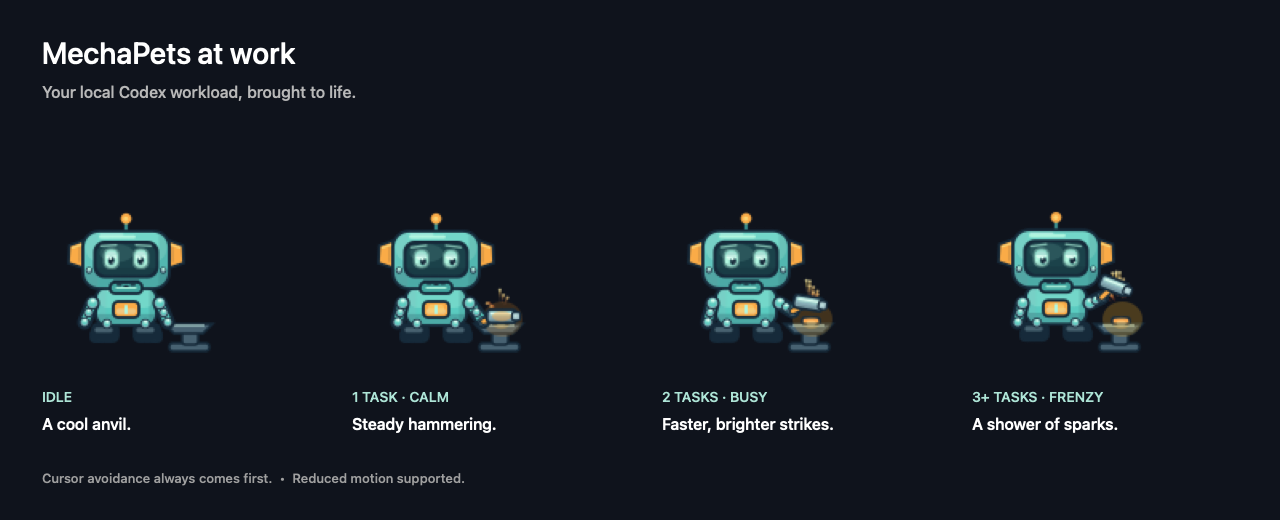
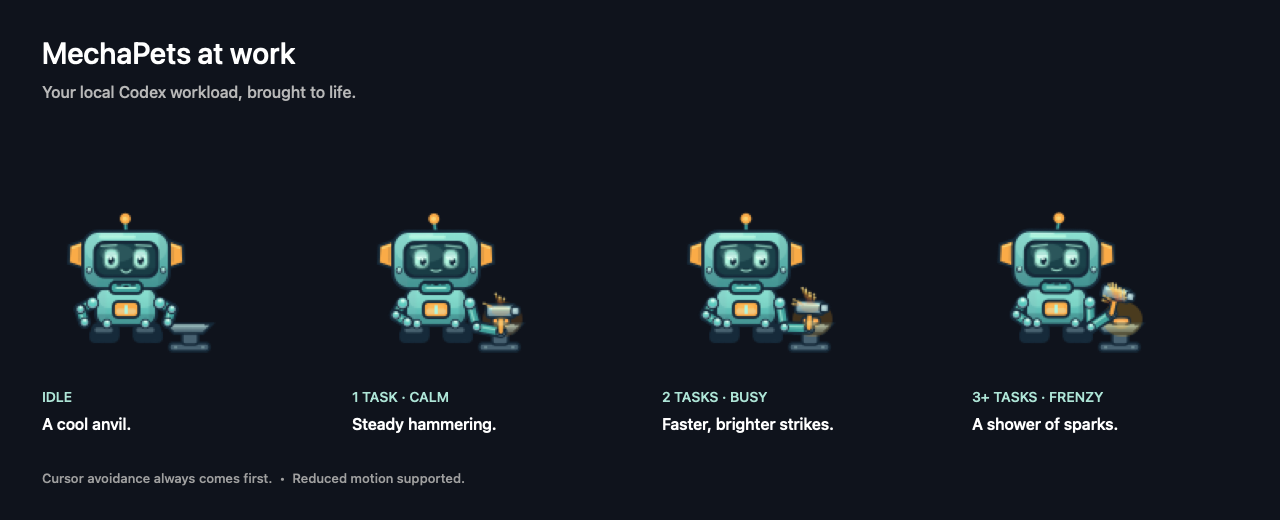
Bring the workshop to life with expressive motion and varied sparks

diff --git a/Sources/Robot.swift b/Sources/Robot.swift
@@ -18,7 +18,11 @@ extension PetView {
         let forging = model.flight == nil && (workloadCount ?? 0) > 0
         let forge = ForgeStyle(count: workloadCount ?? 0)
         let lift = forge.hammerLift(at: now, reducedMotion: model.reducedMotion)
-        let bob:CGFloat = forging ? (model.reducedMotion ? 0 : CGFloat(lift) * (forge.level == 3 ? 1.5 : 0.7)) : row==0 ? (frame==1 || frame==4 ? 1:0):0
+        let still = model.reducedMotion
+        let impact = forging && !still ? max(0, 1 - forge.impactAge(at: now) / 0.12) : 0
+        let breath = still || airborne ? 0 : sin(now * 2.1) * 0.65
+        let bob: CGFloat = forging ? CGFloat(lift) * 1.5 - CGFloat(impact) * 1.1 : CGFloat(breath)
+        let antennaLag: CGFloat = still ? 0 : CGFloat(sin(now * (forging ? forge.strikesPerSecond * .pi * 2 : 2.1) - 0.7)) * (forging ? 1.8 : 0.8)
         func box(_ x:CGFloat,_ y:CGFloat,_ w:CGFloat,_ h:CGFloat,_ r:CGFloat,_ color:NSColor) {
             let p=NSBezierPath(roundedRect:NSRect(x:x,y:y+bob,width:w,height:h),xRadius:r,yRadius:r)
             color.setFill();p.fill();ink.setStroke();p.lineWidth=1.8;p.stroke()
@@ -26,7 +30,7 @@ extension PetView {
         func plated(_ x:CGFloat,_ y:CGFloat,_ w:CGFloat,_ h:CGFloat,_ r:CGFloat,_ color:NSColor) {
             let rect=NSRect(x:x,y:y+bob,width:w,height:h)
             let p=NSBezierPath(roundedRect:rect,xRadius:r,yRadius:r)
-            color.setFill();p.fill()
+            NSGradient(starting:color.blended(withFraction:0.18,of:ink)!, ending:color.blended(withFraction:0.28,of:shine)!)!.draw(in:p,angle:90)
             NSGraphicsContext.saveGraphicsState()
             p.addClip()
             highlight.withAlphaComponent(0.28).setFill()
@@ -73,7 +77,7 @@ extension PetView {
             rim.lineCapStyle = .round;rim.lineWidth=1.15;amber.setStroke();rim.stroke()
         }
         // Short, articulated boots: they tuck up during jumps.
-        let footY:CGFloat=airborne ? -27:-36
+        let footY:CGFloat=(airborne ? -27 : -36) - bob // Feet stay planted while the torso compresses.
         box(-21,footY,16,11,3.4,ink);box(-22,footY,7,7,2.2,ink)
         box(5,footY,16,11,3.4,ink);box(15,footY,7,7,2.2,ink)
         steel.withAlphaComponent(0.42).setFill()
@@ -85,15 +89,24 @@ extension PetView {
         shine.withAlphaComponent(0.34).setFill()
         NSBezierPath(roundedRect:NSRect(x:-6.2,y:-18.8+bob,width:12.4,height:3.4),xRadius:1.4,yRadius:1.4).fill()
         if forging {
-            let pulse=CGFloat(1 - lift) * (0.18 + 0.10 * CGFloat(forge.level))
+            let pulse: CGFloat = still ? 0.10 : CGFloat(impact) * (0.18 + 0.10 * CGFloat(forge.level))
             amber.withAlphaComponent(0.28+pulse).setFill()
             NSBezierPath(roundedRect:NSRect(x:-5,y:-18+bob,width:10,height:5),xRadius:2,yRadius:2).fill()
         }
         line(NSPoint(x:0,y:-18+bob),NSPoint(x:0,y:-14+bob),highlight,2)
         func arm(_ from:NSPoint,_ to:NSPoint) {
-            line(from,to,ink,9.2);line(from,to,shell,5.2)
+            let dx=to.x-from.x,dy=to.y-from.y
+            let distance=max(0.001,hypot(dx,dy))
+            let reach:CGFloat=(airborne || (forging && from.x > 0)) ? 15.5 : 8.5
+            let bend=sqrt(max(0,reach*reach-distance*distance/4))
+            let side:CGFloat=from.x < 0 || forging ? -1 : 1
+            let elbow=NSPoint(x:(from.x+to.x)/2-side*dy/distance*bend,y:(from.y+to.y)/2+side*dx/distance*bend)
+            for (a,b) in [(from,elbow),(elbow,to)] {
+                line(a,b,ink,8);line(a,b,plate,5)
+                line(NSPoint(x:a.x-0.7,y:a.y+0.8),NSPoint(x:b.x-0.7,y:b.y+0.8),highlight.withAlphaComponent(0.65),1.3)
+            }
             joint(from.x,from.y,4.1)
-            joint((from.x+to.x)*0.5,(from.y+to.y)*0.5,3.1)
+            joint(elbow.x,elbow.y,3.1)
         }
         // Arms can reach toward the tether without changing the body silhouette.
         var hammerHead=NSPoint.zero
@@ -104,25 +117,32 @@ extension PetView {
             arm(NSPoint(x:21,y:-11),NSPoint(x:28,y:15))
         } else if forging {
             // One hand steadies the robot while the other works a small steel hammer.
-            arm(NSPoint(x:-21,y:-12),NSPoint(x:-24,y:-24))
-            joint(-24,-24,3.4)
+            arm(NSPoint(x:-21,y:-12+bob),NSPoint(x:-18,y:-24))
+            joint(-18,-24,3.4)
             let t=CGFloat(lift)
             // Hammer head sits on the anvil face at rest; raise tilts it back. Drawn without bob.
-            hammerHead=NSPoint(x:41-9*t,y:-20.2+37*t)
-            hammerHand=NSPoint(x:29.5-2*t,y:-23.5+29*t)
+            hammerHead=NSPoint(x:40.5-9*t,y:-16.9+34*t)
             hammerTilt = -0.72 * t
-            arm(NSPoint(x:21,y:-12),hammerHand)
+            // Fixed-length handle, perpendicular to the hammer face at every pose.
+            hammerHand=NSPoint(x:hammerHead.x+sin(hammerTilt)*13,y:hammerHead.y-cos(hammerTilt)*13)
+            arm(NSPoint(x:21,y:-12+bob),hammerHand)
         } else {
             arm(NSPoint(x:-21,y:-12),NSPoint(x:-26,y:-24))
             arm(NSPoint(x:21,y:-12),NSPoint(x:26,y:-24))
             joint(-26,-24,3.2);joint(26,-24,3.2)
         }
+        // A little head follow-through sells the weight of each blow.
+        NSGraphicsContext.saveGraphicsState()
+        let headMotion=NSAffineTransform()
+        headMotion.translateX(by:forging ? CGFloat(lift)*0.7 : 0,yBy:0)
+        headMotion.rotate(byRadians:forging && !still ? CGFloat(lift)*(-0.025)+CGFloat(impact)*0.018 : 0)
+        headMotion.concat()
         // Angular receiver fins and an amber antenna distinguish the character.
         fin(baseX:-27,pointing:-1);fin(baseX:27,pointing:1)
-        line(NSPoint(x:0,y:31+bob),NSPoint(x:0,y:40+bob),ink,3.2)
-        line(NSPoint(x:0,y:31+bob),NSPoint(x:0,y:39+bob),plate,1.6)
-        orange.setFill();NSBezierPath(ovalIn:NSRect(x:-3.4,y:37.4+bob,width:6.8,height:6.8)).fill()
-        amber.setFill();NSBezierPath(ovalIn:NSRect(x:-1.8,y:39.2+bob,width:3.2,height:3.0)).fill()
+        line(NSPoint(x:0,y:31+bob),NSPoint(x:antennaLag,y:40+bob),ink,3.2)
+        line(NSPoint(x:0,y:31+bob),NSPoint(x:antennaLag,y:39+bob),plate,1.6)
+        orange.setFill();NSBezierPath(ovalIn:NSRect(x:-3.4+antennaLag,y:37.4+bob,width:6.8,height:6.8)).fill()
+        amber.setFill();NSBezierPath(ovalIn:NSRect(x:-1.8+antennaLag,y:39.2+bob,width:3.2,height:3.0)).fill()
         plated(-27,-3,54,36,10,shell)
         box(-10,-6,20,7,3,plate)
         line(NSPoint(x:-6,y:-2.5+bob),NSPoint(x:6,y:-2.5+bob),highlight,1.1)
@@ -144,10 +164,10 @@ extension PetView {
             highlight.setFill();NSBezierPath(ovalIn:NSRect(x:x-0.9,y:y-0.2+bob,width:2.1,height:2.0)).fill()
         }
         rivet(-23.2,8.5);rivet(23.2,8.5)
-        let blink=row==0 && frame==4
-        let lookX:CGFloat = forging ? 1.25 : (airborne ? 0 : 0)
+        let blink = !still && !airborne && now.truncatingRemainder(dividingBy: 4.7) > 4.55
+        let lookX:CGFloat = forging ? 1.25 : (still ? 0 : CGFloat(sin(now * 0.65)) * 0.65)
         let lookY:CGFloat = forging ? -0.85 : (airborne ? 0.45 : 0)
-        let squint:CGFloat = forging ? (0.18 + CGFloat(1 - lift) * (forge.level >= 3 ? 0.38 : 0.16)) : 0
+        let squint:CGFloat = forging ? (still ? 0.12 : 0.18 + CGFloat(impact) * (forge.level >= 3 ? 0.38 : 0.16)) : 0
         func eye(_ x:CGFloat) {
             let h=11.2 - squint*3.4
             let oy:CGFloat=10.2 + squint*1.4
@@ -185,6 +205,11 @@ extension PetView {
         } else {
             eye(-13.2);eye(5.2)
         }
+        // Small smile lives on the visor, separate from the chin vents.
+        let smile=NSBezierPath()
+        smile.move(to:NSPoint(x:-3,y:8.8+bob))
+        smile.curve(to:NSPoint(x:3,y:8.8+bob),controlPoint1:NSPoint(x:-1.4,y:(forging ? 7.7 : 6.5)+bob),controlPoint2:NSPoint(x:1.4,y:(forging ? 7.7 : 6.5)+bob))
+        smile.lineWidth=1.1;smile.lineCapStyle = .round;highlight.withAlphaComponent(0.8).setStroke();smile.stroke()
         let browDrop:CGFloat = forging ? (0.55 + squint*1.15) : (airborne ? -0.75 : 0)
         line(NSPoint(x:-15.6,y:23.7+bob-browDrop),NSPoint(x:-6.1,y:24.3+bob-browDrop*0.3),highlight.withAlphaComponent(0.62),1.35)
         line(NSPoint(x:6.1,y:24.3+bob-browDrop*0.3),NSPoint(x:15.6,y:23.7+bob-browDrop),highlight.withAlphaComponent(0.62),1.35)
@@ -195,6 +220,7 @@ extension PetView {
         line(NSPoint(x:-5.4,y:0.15+bob-grin),NSPoint(x:-3.1,y:0.15+bob-grin),ink,1.15)
         line(NSPoint(x:-1.15,y:-0.25+bob-grin*1.2),NSPoint(x:1.15,y:-0.25+bob-grin*1.2),ink,1.15)
         line(NSPoint(x:3.1,y:0.15+bob-grin),NSPoint(x:5.4,y:0.15+bob-grin),ink,1.15)
+        NSGraphicsContext.restoreGraphicsState() // Head motion does not move the hammer.
         if forging {
             // Draw the hammer without body bob so impact meets the anvil precisely.
             joint(hammerHand.x,hammerHand.y,3.5)
@@ -220,8 +246,8 @@ extension PetView {
             shine.withAlphaComponent(0.5).setFill()
             NSBezierPath(ovalIn:NSRect(x:7.4,y:-0.6,width:2.4,height:1.8)).fill()
             line(NSPoint(x:-6.5,y:1.6),NSPoint(x:5.4,y:1.6),shine,1.25)
-            if lift < 0.22 {
-                let hot=CGFloat(1 - lift / 0.22)
+            if impact > 0 {
+                let hot=CGFloat(impact)
                 NSColor(calibratedRed:1,green:0.62,blue:0.22,alpha:0.18+0.28*hot).setFill()
                 NSBezierPath(ovalIn:NSRect(x:-6,y:-3.2,width:12,height:6.4)).fill()
             }

diff --git a/Sources/Forge.swift b/Sources/Forge.swift
@@ -16,7 +16,16 @@ struct ForgeStyle {
     func hammerLift(at time: Double, reducedMotion: Bool) -> Double {
         guard level > 0 && !reducedMotion else { return 0 }
         let phase = phase(at: time)
-        return phase < 0.7 ? sin(phase / 0.7 * .pi / 2) : max(0, 1 - (phase - 0.7) / 0.18)
+        if phase < 0.64 { // Smooth anticipation; the last part of the lift slows down.
+            let t = phase / 0.64
+            return t * t * (3 - 2 * t)
+        }
+        if phase < 0.70 { return 1 } // Brief poised hold makes the strike readable.
+        if phase < 0.88 {
+            let t = (phase - 0.70) / 0.18
+            return 1 - t * t // Accelerate into contact.
+        }
+        return 0
     }
     func impactAge(at time: Double) -> Double {
         guard level > 0 else { return .infinity }
@@ -47,10 +56,14 @@ extension PetView {
         anvil.line(to: NSPoint(x: 54, y: -25))
         anvil.line(to: NSPoint(x: 48, y: -31))
         anvil.line(to: NSPoint(x: 30, y: -31))
-        anvil.close(); metal.setFill(); anvil.fill(); ink.setStroke(); anvil.lineWidth = 1.5; anvil.stroke()
+        anvil.close()
+        NSGradient(starting:metal.blended(withFraction:0.2,of:ink)!,ending:edge)!.draw(in:anvil,angle:90)
+        ink.setStroke(); anvil.lineWidth = 1.5; anvil.stroke()
         let rim = NSBezierPath(); rim.move(to: NSPoint(x: 29, y: -26)); rim.line(to: NSPoint(x: 49, y: -26))
         edge.setStroke(); rim.lineWidth = 1.4; rim.stroke()
 
+        edge.withAlphaComponent(0.5).setFill()
+        for x in [30.0,47.0] { NSBezierPath(ovalIn:NSRect(x:x,y:-40.6,width:2,height:2)).fill() }
         guard style.level > 0 else { return }
         let age = style.impactAge(at: time)
         let impact = reducedMotion ? 0 : max(0, 1 - age / 0.16)
@@ -59,54 +72,55 @@ extension PetView {
         NSBezierPath(ovalIn: NSRect(x: 29, y: -33, width: 25, height: 22)).fill()
         let hot = NSColor(calibratedRed: 1, green: 0.51 + impact * 0.32, blue: 0.21 + impact * 0.25, alpha: 1)
         box(NSRect(x: 35, y: -25, width: 11, height: 4), radius: 1.5, color: hot)
+    }
+
+    // Effects render above the robot so leftward embers are not hidden by its arm.
+    func drawForgeEffects(at position: V, count: Int, time: Double, reducedMotion: Bool) {
+        let style=ForgeStyle(count:count)
+        guard style.level > 0 && !reducedMotion else { return }
+        NSGraphicsContext.saveGraphicsState()
+        defer { NSGraphicsContext.restoreGraphicsState() }
+        let transform=NSAffineTransform();transform.translateX(by:position.x,yBy:position.y);transform.concat()
+        let age=style.impactAge(at:time)
+        let impact=max(0,1-age/0.16)
         if !reducedMotion && impact > 0 {
             NSColor(calibratedRed: 1, green: 0.72, blue: 0.28, alpha: 0.16 + impact * 0.38).setFill()
             NSBezierPath(ovalIn: NSRect(x: 35.5, y: -28.2, width: 10.5, height: 7.4)).fill()
             NSColor(calibratedRed: 1, green: 0.92, blue: 0.62, alpha: 0.20 + impact * 0.45).setFill()
             NSBezierPath(ovalIn: NSRect(x: 37.6, y: -26.4, width: 6.2, height: 3.8)).fill()
         }
-        // Deterministic sparks have no retained particle state or unbounded allocation.
-        guard !reducedMotion && age < 0.25 else { return }
-        let progress = age / 0.25
-        func sparkPoint(_ p: Double, x0: Double, y0: Double, vx: Double, vy: Double, grav: Double) -> NSPoint {
-            let t = max(0, min(1, p))
-            let x = min(53.5, max(-53.5, x0 + vx * t))
-            let y = min(53.5, max(-41.8, y0 + vy * t - 0.5 * grav * t * t))
-            return NSPoint(x: x, y: y)
-        }
-        for i in 0..<style.sparkCount {
-            let seed = Double((i * 37 + 11) % 101) / 100
-            let spread = Double((i * 61 + 29) % 101) / 100
-            let hang = Double((i * 89 + 17) % 101) / 100
-            let life = 0.72 + seed * 0.28
-            let fade = max(0, 1 - progress / life)
-            guard fade > 0.02 else { continue }
-            let p = min(1, progress / life)
-            let x0 = 40.0 + (spread - 0.5) * 2.4
-            let y0 = -21.2
-            let vx = -13.5 + spread * 23.0 + (seed - 0.5) * 5.0
-            let levelScale = 0.55 + 0.15 * Double(style.level)
-            let vy = (34 + seed * 40 + hang * 12) * levelScale
-            let grav = 50 + hang * 28
-            let head = sparkPoint(p, x0: x0, y0: y0, vx: vx, vy: vy, grav: grav)
-            let thick: CGFloat = i % 3 == 0 ? 2.05 : 1.25
-            for k in 0..<3 {
-                let p0 = p - Double(k) * 0.085
-                let p1 = p - Double(k + 1) * 0.085
-                guard p0 > 0 else { continue }
-                let a = sparkPoint(p0, x0: x0, y0: y0, vx: vx, vy: vy, grav: grav)
-                let b = sparkPoint(max(0, p1), x0: x0, y0: y0, vx: vx, vy: vy, grav: grav)
-                let ember = NSBezierPath()
-                ember.move(to: a)
-                ember.line(to: b)
-                ember.lineWidth = thick * (1 - CGFloat(k) * 0.28)
-                ember.lineCapStyle = .round
-                let trail = fade * (0.92 - Double(k) * 0.28)
-                NSColor(calibratedRed: 1, green: 0.48 + seed * 0.40 - Double(k) * 0.10, blue: 0.16 + seed * 0.28, alpha: trail).setStroke()
-                ember.stroke()
+        // Two bounded generations allow the last embers to finish during a fast strike.
+        // Vary each strike without random state; no coordinate clamps that pile sparks up.
+        guard !reducedMotion else { return }
+        let strike = Int(floor(max(0,time) * style.strikesPerSecond - 0.88))
+        for generation in 0...1 {
+            let elapsed = age + Double(generation) / style.strikesPerSecond
+            guard elapsed < 0.40 else { continue }
+            for i in 0..<style.sparkCount {
+                let salt = ((strike - generation) % 997 + 997) % 997
+                let seed = Double((i * 37 + salt * 13 + 11) % 101) / 100
+                let spread = Double((i * 61 + salt * 29 + 29) % 101) / 100
+                let life = 0.26 + seed * 0.14
+                let p = elapsed / life
+                guard p < 1 else { continue }
+                let fade = pow(1-p, 1.3)
+                let vx = -32 + spread * 42
+                let vy = (44 + seed * 48) * (0.64 + 0.12 * Double(style.level))
+                func point(_ t:Double) -> NSPoint {
+                    NSPoint(x:40.5 + vx*t, y:-21 + vy*t - 48*t*t)
+                }
+                let head=point(p)
+                for k in 0..<3 {
+                    let t0=max(0,p-Double(k)*0.055),t1=max(0,p-Double(k+1)*0.055)
+                    guard t0 > 0 else { continue }
+                    let trail=NSBezierPath();trail.move(to:point(t0));trail.line(to:point(t1))
+                    trail.lineWidth=(i % 4 == 0 ? 1.8 : 1.1)*(1-CGFloat(k)*0.24)
+                    trail.lineCapStyle = .round
+                    NSColor(calibratedRed:1,green:0.72-Double(k)*0.16,blue:0.22,alpha:fade*(0.85-Double(k)*0.22)).setStroke();trail.stroke()
+                }
+                NSColor(calibratedRed:1,green:0.90,blue:0.58,alpha:fade).setFill()
+                NSBezierPath(ovalIn:NSRect(x:head.x-0.85,y:head.y-0.85,width:1.7,height:1.7)).fill()
             }
-            NSColor(calibratedRed: 1, green: 0.78 + seed * 0.18, blue: 0.42 + seed * 0.28, alpha: fade * 0.95).setFill()
-            NSBezierPath(ovalIn: NSRect(x: head.x - 1.15, y: head.y - 1.05, width: 2.3, height: 2.1)).fill()
         }
     }
 }

diff --git a/Sources/WorkloadTests.swift b/Sources/WorkloadTests.swift
@@ -59,6 +59,14 @@ func runWorkloadTests() {
         check(style.sparkCount>previous.sparkCount,"workload ramps sparks")
         check(style.hammerLift(at:0.2,reducedMotion:true)==0,"reduced motion stops hammer")
         check(style.impactAge(at:0.881/style.strikesPerSecond)<0.002,"sparks synchronized with impact")
+        check(style.hammerLift(at:0.67/style.strikesPerSecond,reducedMotion:false)==1,"hammer pauses at full lift before striking")
+        check(style.hammerLift(at:0.879/style.strikesPerSecond,reducedMotion:false)>0,"hammer stays above workpiece before impact")
+        check(style.hammerLift(at:0.881/style.strikesPerSecond,reducedMotion:false)==0,"hammer contacts workpiece when sparks fire")
+        for sample in 0...100 {
+            let t=Double(sample)/100/style.strikesPerSecond
+            let lift=style.hammerLift(at:t,reducedMotion:false)
+            check(lift>=0 && lift<=1,"hammer never penetrates workpiece or overshoots wind-up")
+        }
     }
     check(ForgeStyle(count:900).sparkCount==ForgeStyle(count:3).sparkCount,"frenzy has bounded particles")
     check(ForgeStyle(count:-1).level==0,"negative count clamps")
@@ -115,4 +123,44 @@ func renderForgeAnimation(to path:String) {
         }
     }
     precondition(CGImageDestinationFinalize(destination))
+}
+
+// Native raster regression: run on a Mac with a WindowServer using --art-self-test.
+// Exercises actual drawing, including compositing order, for all four workload levels.
+func runArtRenderingTests() {
+    _ = NSApplication.shared
+    let view=PetView(frame:NSRect(x:0,y:0,width:180,height:180))
+    view.model=Motion(bounds:view.bounds,position:V(x:90,y:90))
+    var frames=0,violations=0,maxX=0,maxY=0
+    for reduced in [false,true] {
+        for count in 0...3 {
+            var stillPixels: Data?
+            for step in 0..<150 {
+                autoreleasepool {
+                    let rep=NSBitmapImageRep(bitmapDataPlanes:nil,pixelsWide:180,pixelsHigh:180,bitsPerSample:8,samplesPerPixel:4,hasAlpha:true,isPlanar:false,colorSpaceName:.deviceRGB,bitmapFormat:[],bytesPerRow:0,bitsPerPixel:0)!
+                    memset(rep.bitmapData!,0,rep.bytesPerRow*180)
+                    NSGraphicsContext.saveGraphicsState()
+                    NSGraphicsContext.current=NSGraphicsContext(bitmapImageRep:rep)!
+                    view.workloadCount=count;view.now=Double(step)/29
+                    view.model.reducedMotion=reduced
+                    view.draw(view.bounds)
+                    NSGraphicsContext.restoreGraphicsState()
+                    let bytes=rep.bitmapData!
+                    if reduced {
+                        let data=Data(bytes:bytes,count:rep.bytesPerRow*180)
+                        if let reference=stillPixels { precondition(data==reference,"Reduced motion artwork changed over time") }
+                        else { stillPixels=data }
+                    }
+                    for y in 0..<180 { for x in 0..<180 where bytes[y*rep.bytesPerRow+x*4+3]>8 {
+                        let dx=abs(x-90),dy=abs(y-90)
+                        maxX=max(maxX,dx);maxY=max(maxY,dy)
+                        if dx>60 || dy>64 { violations+=1 }
+                    }}
+                    frames+=1
+                }
+            }
+        }
+    }
+    precondition(violations==0,"Artwork exceeded cursor-avoidance drawing margin")
+    print("PASS: \(frames) native frames; extents ±\(maxX)x±\(maxY); zero out-of-margin pixels; reduced-motion pixels identical across time.")
 }

diff --git a/Sources/main.swift b/Sources/main.swift
@@ -32,13 +32,19 @@ final class PetView: NSView {
             return (4,min(4,Int(p*5)))
         }
         if now-model.lastLanding < 0.14 { return (4,0) }
-        return (0,model.reducedMotion ? 0 : Int(now/0.75)%6)
+        return (0,0) // Grounded artwork uses time; no legacy frame invalidations.
     }
     func refresh() {
         let (r,c)=visualFrame()
         let key="\(r)-\(c)-\(model.position.x)-\(model.position.y)-\(model.flight != nil)"
         let workshopKey=key+"-\(workloadCount ?? -1)-\(model.reducedMotion)"
-        if model.flight != nil || ((workloadCount ?? 0)>0 && !model.reducedMotion) || workshopKey != lastVisual { needsDisplay=true;lastVisual=workshopKey }
+        if model.flight != nil || workshopKey != lastVisual {
+            needsDisplay=true
+        } else if !model.reducedMotion {
+            // Breathing and short blinks repaint only the pet's small drawing area.
+            setNeedsDisplay(NSRect(x:model.position.x-60,y:model.position.y-64,width:120,height:128))
+        }
+        lastVisual=workshopKey
     }
     override func draw(_ dirtyRect:NSRect) {
         NSColor.clear.setFill();dirtyRect.fill(using:.copy)
@@ -68,6 +74,9 @@ final class PetView: NSView {
         var angle:CGFloat=0
         if let f=f,f.ability == .swing { angle=CGFloat(sin(progress*Double.pi)*0.23*(f.end.x>f.start.x ? -1:1)) }
         drawSprite(row:row,col:col,at:p,alpha:quietAlpha,angle:angle)
+        if f == nil, let count=workloadCount {
+            drawForgeEffects(at:p,count:count,time:now,reducedMotion:model.reducedMotion)
+        }
     }
     func drawSprite(row:Int,col:Int,at p:V,alpha:CGFloat,angle:CGFloat) {
         NSGraphicsContext.saveGraphicsState()
@@ -267,6 +276,7 @@ if args.contains("--workload-status") {
     print(String(data:try! JSONEncoder().encode(result),encoding:.utf8)!)
     exit(result.activeCount == nil ? 1:0)
 }
+if args.contains("--art-self-test") { runArtRenderingTests();exit(0) }
 if let i=args.firstIndex(of:"--render-forge-animation"),i+1<args.count { renderForgeAnimation(to:args[i+1]);exit(0) }
 if let i=args.firstIndex(of:"--render-forge-preview"),i+1<args.count { renderForgePreview(to:args[i+1]);exit(0) }
 if let i=args.firstIndex(of:"--render-preview"),i+1<args.count { renderPreview(to:args[i+1]);exit(0) }

diff --git a/docs/workload.md b/docs/workload.md
@@ -61,3 +61,19 @@ The build already runs `--self-test`; rerun it directly when useful during devel
 `--workload-status` prints JSON containing `status` and, when available, `activeCount`. An unavailable result omits the count and has a nonzero exit status. This command uses `CODEX_HOME`, falling back to `~/.codex`; it does not use the desktop app’s saved folder-picker preference.
 
 The UI smoke test needs a logged-in graphical macOS session. It exercises native controls and visual state changes; it does not establish exhaustive screen-layout or live multi-task behavior. Use the four labeled previews to inspect animation levels, then observe a normal local task start and finish to check the live adapter. Do not publish private task data or desktop content as test evidence.
+
+### Expressive workshop artwork
+
+Version 0.3 adds planted feet, breathing, short blinks, head and antenna follow-through,
+a poised hammer wind-up, rigid tool geometry, and an impact recoil. Sparks vary by
+strike and render in front of the arm; at most two generations (32 sparks) are drawn.
+Reduced motion uses a relaxed, fully static pose with no emitted particles.
+
+To check native artwork bounds and reduced-motion stability on a Mac with a desktop session:
+
+```sh
+./MechaPets.app/Contents/MacOS/MechaPets --art-self-test
+```
+
+This rasterizes 1,200 frames across all workload levels and compares reduced-motion
+pixels over time. The normal build also checks hammer contact and cadence.
